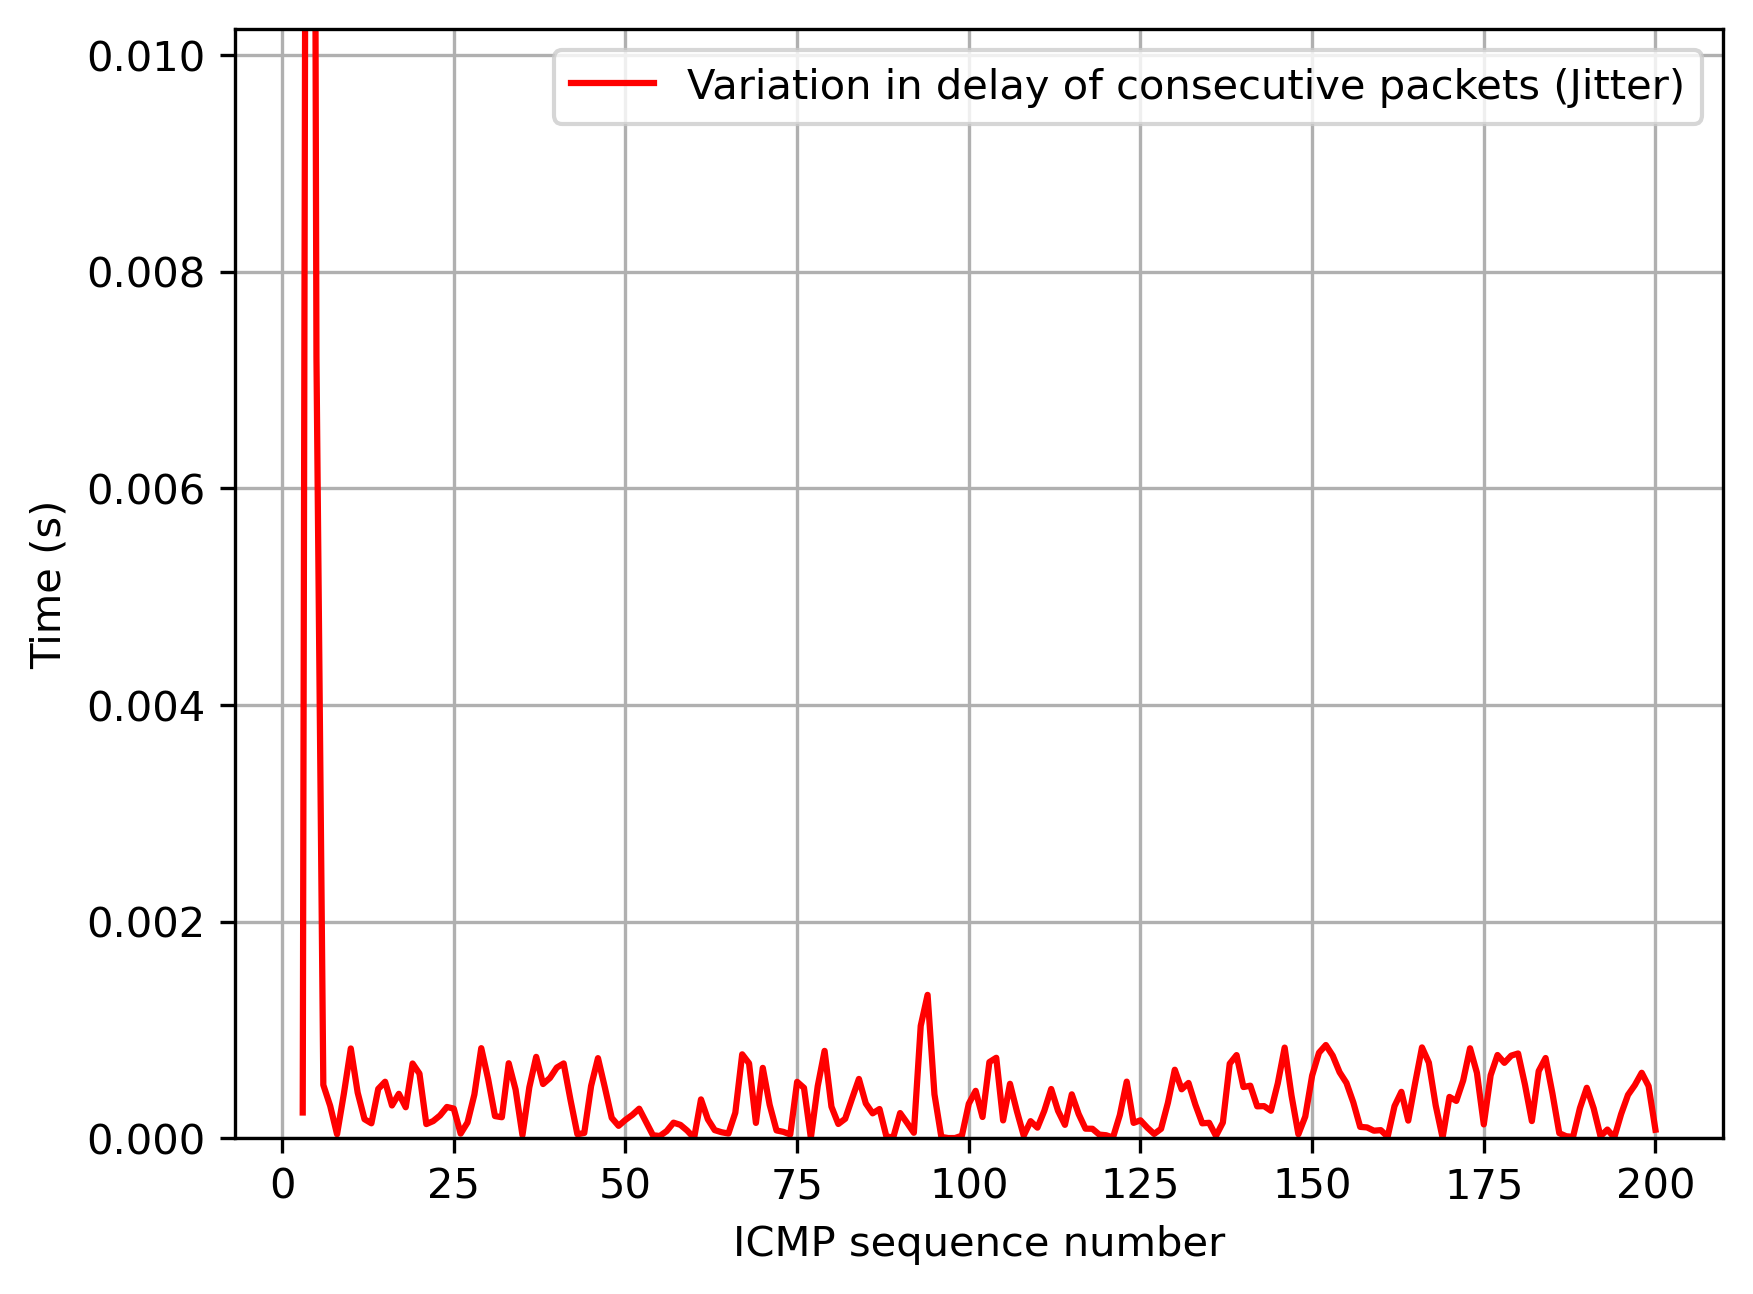
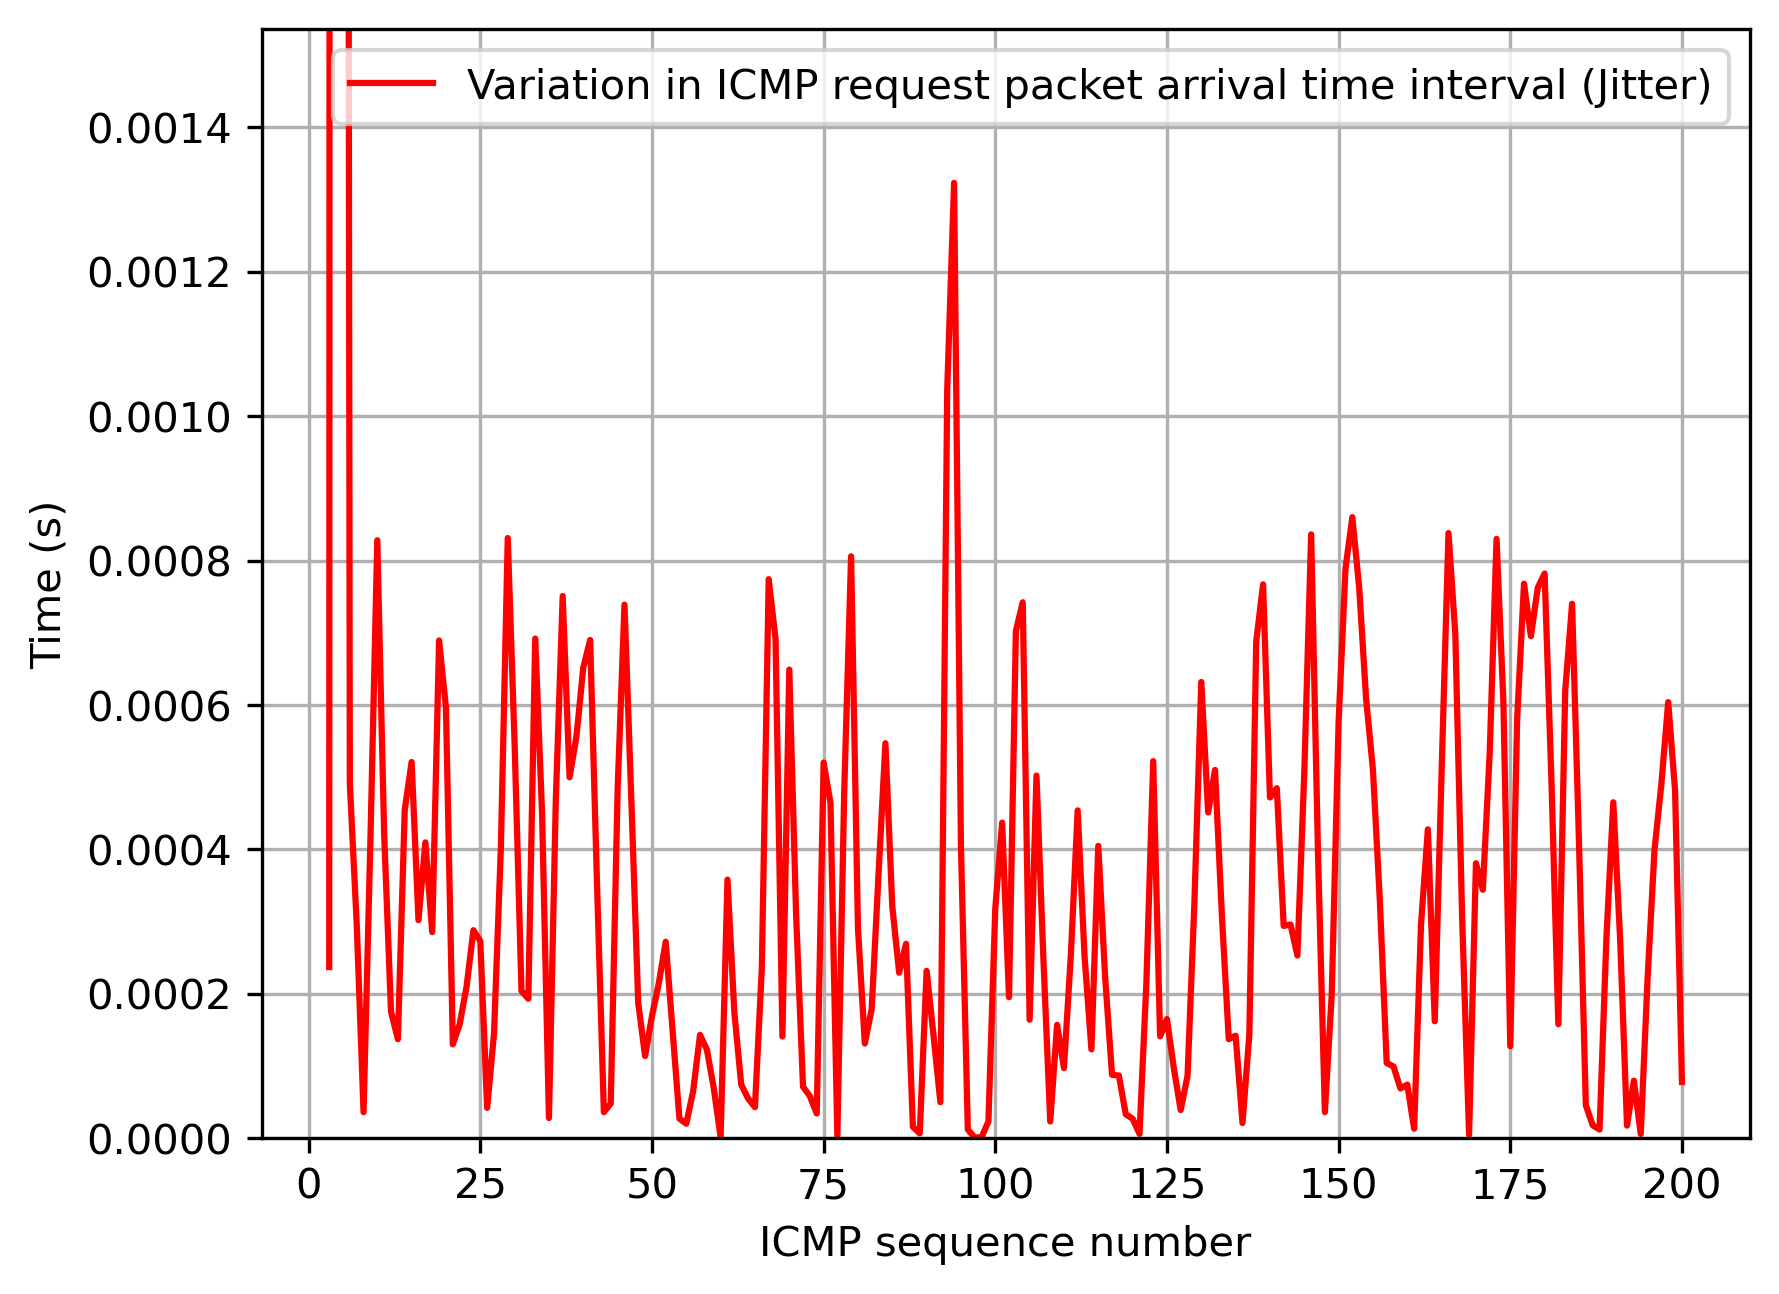
Adição dos histogramas

Changed region(s): [[0.0308, 0.0309, 0.9857, 0.9892], [0.4313, 0.3709, 0.4929, 0.4019], [0.4313, 0.3091, 0.4929, 0.34]]

diff --git a/project2/icmp_analyzer.py b/project2/icmp_analyzer.py
@@ -4,7 +4,7 @@ from packet_analyzer import PacketAnalyzer
 from graph_plotter import GraphPlotter
 from ip_analyzer import IpAnalyzer
 
-# analisador de pacotes em capturas .pcap
+# analisador de camada ICMP
 class IcmpAnalyzer(PacketAnalyzer):
 
     def __init__(self, id=None, path=None):
@@ -41,7 +41,7 @@ class IcmpAnalyzer(PacketAnalyzer):
         return sorted(list(seqsList)) if seqsList else []
 
     # retorna estatísticas de RTT ICMP: lista de RTT, desvio padrão, média, máximo, mínimo
-    # sobrescrito
+    # override
     def getRttStats(self):
 
         rtts = []
@@ -71,7 +71,7 @@ class IcmpAnalyzer(PacketAnalyzer):
                 }
     
     # retorna estatísticas de intervalo de chegada entre requisições ICMP: lista de intervalos, média, desvio padrão, máximo e mínimo
-    # sobrescrito
+    # override
     def getIntervalStats(self):
 
         if self.getTotalPackets() < 2:
@@ -99,7 +99,7 @@ class IcmpAnalyzer(PacketAnalyzer):
                 } 
     
     # retorna estatísticas de perda de pacotes: enviados, recebidos, perdidos, taxa de perdas
-    # sobrescrito
+    # override
     def getPacketLossStats(self):
 
         sent = 0
@@ -126,7 +126,7 @@ class IcmpAnalyzer(PacketAnalyzer):
                 }
 
     # imprime métricas ICMP
-    # sobrescrito
+    # override
     def printMetrics(self):
 
         id = self.getId()
@@ -180,48 +180,118 @@ class IcmpAnalyzer(PacketAnalyzer):
         print(f"Loss rate: {lossRate}%")
         print()
     
-    # plota gráficos ICMP
-    # sobrescrito
-    def plotGraphs(self, path):
+    # plotagem de gráficos ICMP
+    # override
+    def plotIntervalGraph(self, path):
+        
+        id = self.getId()
+        seqs = self.getIcmpSeqsList()
+        intervals = self.getIntervalStats()["intervals"]
+
+        intervalGraph = GraphPlotter(xLabel="ICMP sequence number", yLabel="Time (s)")
+        intervalGraph.plotLineGraph(seqs[1:], intervals, color="yellow", plotLabel="ICMP request packet arrival time interval", marker=None)
+        intervalGraph.saveGraph(path+id+"-interval.png")
+    
+    # override
+    def plotJitterGraph(self, path):
+
+        id = self.getId()
+        seqs = self.getIcmpSeqsList()
+        intervals = self.getIntervalStats()["intervals"]
+        jitters = self.getJitterStats(intervals)["jitters"]
+
+        jitterGraph = GraphPlotter(xLabel="ICMP sequence number", yLabel="Time (s)")
+        jitterGraph.plotLineGraph(seqs[2:], jitters, color="red", plotLabel="Variation in ICMP request packet arrival time interval (Jitter)", marker=None, autoScaleY=True)
+        jitterGraph.saveGraph(path+id+"-jitter.png")
+    
+    #override
+    def plotLayersGraph(self, path):
 
         id = self.getId()
         layers = self.getLayers()["layers"]
         nLayers = self.getLayers()["nLayers"]
-        intervals = self.getIntervalStats()["intervals"]
-        jitters = self.getJitterStats(intervals)["jitters"]
 
-        seqs = self.getIcmpSeqsList()
-        rtts = self.getRttStats()["rtts"]
-        lossStats = self.getPacketLossStats()["lossStats"]
-        lossRate = self.getPacketLossStats()["lossRate"]
-
-        intervalGraph = GraphPlotter(xLabel="ICMP sequence number", yLabel="Time (s)")
-        intervalGraph.plotLineGraph(seqs[1:], intervals, color="yellow", plotLabel="Interval between consecutive packets", marker=None)
-        intervalGraph.saveGraph(path+id+"-interval.png")
-
-        jitterGraph = GraphPlotter(xLabel="ICMP sequence number", yLabel="Time (s)")
-        jitterGraph.plotLineGraph(seqs[2:], jitters, color="red", plotLabel="Variation in delay of consecutive packets (Jitter)", marker=None, autoScaleY=True, yScaleFactor=20)
-        jitterGraph.saveGraph(path+id+"-jitter.png")
-        
         layersGraph = GraphPlotter(xLabel="Protocol layers", yLabel="Amount of packets", legendPosition="right")
         layersGraph.plotBarGraph(layers, nLayers, plotLabel=layers)
         layersGraph.saveGraph(path+id+"-layers.png")
+
+    # override
+    def plotRttGraph(self, path):
+        
+        id = self.getId()
+        seqs = self.getIcmpSeqsList()
+        rtts = self.getRttStats()["rtts"]
 
         rttGraph = GraphPlotter(xLabel="ICMP sequence Number", yLabel="Time (s)")
         rttGraph.plotLineGraph(seqs, rtts, color="blue", plotLabel="Round Trip Time", marker=None, autoScaleY=True)
         rttGraph.saveGraph(path+id+"-rtt.png")
 
-        rttJitterGraph = GraphPlotter(None, "ICMP sequence number", "Time (s)")
+    #override
+    def plotRttJitterGraph(self, path):
+
+        id = self.getId()
+        seqs = self.getIcmpSeqsList()
+        rtts = self.getRttStats()["rtts"]
+        intervals = self.getIntervalStats()["intervals"]
+        jitters = self.getJitterStats(intervals)["jitters"]
+
+        rttJitterGraph = GraphPlotter(xLabel="ICMP sequence number", yLabel="Time (s)")
         rttJitterGraph.plotLineGraph(seqs, rtts, color="blue", plotLabel="Round Trip Time", marker=None)
-        rttJitterGraph.plotLineGraph(seqs[2:], jitters, color="red", plotLabel="Variation in delay of consecutive packets (Jitter)", marker=None, autoScaleY=True, yScaleFactor=20)
+        rttJitterGraph.plotLineGraph(seqs[2:], jitters, color="red", plotLabel="Variation in ICMP request packet arrival time interval (Jitter)", marker=None, autoScaleY=True)
         rttJitterGraph.saveGraph(path+id+"-rtt-jitter.png")
+    
+    # override
+    def plotLossGraph(self, path):
+
+        id = self.getId()
+        lossStats = self.getPacketLossStats()["lossStats"]
 
         lossGraph = GraphPlotter(xLabel="Packet loss statistics", yLabel="Amount of packets", legendPosition="right")
         lossGraph.plotBarGraph(["sent", "received", "lost"], lossStats, ["gray", "green", "red"], ["Sent Packets", "Received Packets", "Lost Packets"])
         lossGraph.saveGraph(path+id+"-loss.png")
+    
+    # override
+    def plotLossRateGraph(self, path):
+        
+        id = self.getId()
+        lossRate = self.getPacketLossStats()["lossRate"]
 
         lossRateGraph = GraphPlotter()
         lossRateGraph.plotPizzaGraph(["received packets", "lost packets"], [100-lossRate, lossRate], ["green", "red"])
         lossRateGraph.saveGraph(path+id+"-loss-rate.png")
 
+    # override
+    def plotIntervalHistogram(self, path):
+
+        id = self.getId()
+        intervals = self.getIntervalStats()["intervals"]
+
+        intervalHistogram = GraphPlotter(xLabel="Interval time (s)", yLabel="Frequency", legendFlag=False)
+        intervalHistogram.plotHistogram(intervals, color="yellow", plotLabel="ICMP request packet arrival time interval")
+        intervalHistogram.saveGraph(path+id+"-interval-histogram.png")
+    
+    #override
+    def plotJitterHistogram(self, path):
+
+        id = self.getId()
+        intervals = self.getIntervalStats()["intervals"]
+        jitters = self.getJitterStats(intervals)["jitters"]
+
+        jitterHistogram = GraphPlotter(xLabel="Jitter interval time (s)", yLabel="Frequency", legendFlag=False)
+        jitterHistogram.plotHistogram(jitters, color="red", plotLabel="Variation in ICMP request packet arrival time interval (Jitter)")
+        jitterHistogram.saveGraph(path+id+"-jitter-histogram.png")
+
+    #override
+    def plotRttHistogram(self, path):
+        
+        id = self.getId()
+        rtts = self.getRttStats()["rtts"]
+
+        rttHistogram = GraphPlotter(xLabel="RTT interval time (s)", yLabel="Frequency", legendFlag=False)
+        rttHistogram.plotHistogram(rtts, color="blue", plotLabel="Round Trip Time")
+        rttHistogram.saveGraph(path+id+"-rtt-histogram.png")
+        
+
+        
+        
     

diff --git a/project2/packet_analyzer.py b/project2/packet_analyzer.py
@@ -140,7 +140,7 @@ class PacketAnalyzer:
     def packetPdfDump(self, filename, pkt):
         self.getPacket(pkt).pdfdump(filename, layer_shift=1)
     
-    # imprime métricas
+    # imprime métricas gerais
     def printMetrics(self):
 
         id = self.getId()
@@ -170,27 +170,74 @@ class PacketAnalyzer:
         print(f"Jitter standard deviation: {stdJitter*1000:.2f} ms")
         print(f"Maximum jitter: {maxJitter*1000:.2f} ms")
         print(f"Minimum jitter: {minJitter*1000:.2f} ms")
-        print(f"Throughput: {throughput} bps")
+        print(f"Throughput: {throughput} Mbps")
         print()
 
-    # plota gráficos gerais
-    def plotGraphs(self, path):
+    # plotagem de gráficos gerais
+
+    def plotIntervalGraph(self, path):
 
         id = self.getId()
-        layers = self.getLayers()["layers"]
-        nLayers = self.getLayers()["nLayers"]
-        intervals = self.getIntervalStats()["intervals"]
-        jitters = self.getJitterStats(intervals)["jitters"]
         nPackets = [i for i in range(1, self.getTotalPackets()+1)]
+        intervals = self.getIntervalStats()["intervals"]
 
         intervalGraph = GraphPlotter(xLabel="Packet capture sequence", yLabel="Time (s)")
         intervalGraph.plotLineGraph(nPackets[1:], intervals, color="yellow", plotLabel="Interval between consecutive packets", marker=None)
         intervalGraph.saveGraph(path+id+"-interval.png")
 
+    def plotJitterGraph(self, path):
+
+        id = self.getId()
+        nPackets = [i for i in range(1, self.getTotalPackets()+1)]
+        intervals = self.getIntervalStats()["intervals"]
+        jitters = self.getJitterStats(intervals)["jitters"]
+
         jitterGraph = GraphPlotter(xLabel="Packet capture sequence", yLabel="Time (s)")
-        jitterGraph.plotLineGraph(nPackets[2:], jitters, color="red", plotLabel="Variation in delay of consecutive packets (Jitter)", marker=None, autoScaleY=True, yScaleFactor=20)
+        jitterGraph.plotLineGraph(nPackets[2:], jitters, color="red", plotLabel="Variation in delay of consecutive packets (Jitter)", marker=None, autoScaleY=True)
         jitterGraph.saveGraph(path+id+"-jitter.png")
-        
+
+    def plotLayersGraph(self, path):
+
+        id = self.getId()
+        layers = self.getLayers()["layers"]
+        nLayers = self.getLayers()["nLayers"]
+
         layersGraph = GraphPlotter(xLabel="Protocol layers", yLabel="Amount of packets", legendPosition="right")
         layersGraph.plotBarGraph(layers, nLayers, plotLabel=layers)
         layersGraph.saveGraph(path+id+"-layers.png")
+
+    def plotIntervalHistogram(self, path):
+
+        id = self.getId()
+        intervals = self.getIntervalStats()["intervals"]
+
+        intervalHistogram = GraphPlotter(xLabel="Interval time (s)", yLabel="Frequency", legendFlag=False)
+        intervalHistogram.plotHistogram(intervals, color="yellow", plotLabel="Interval between consecutive packets")
+        intervalHistogram.saveGraph(path+id+"-interval-histogram.png")
+
+    def plotJitterHistogram(self, path):
+
+        id = self.getId()
+        intervals = self.getIntervalStats()["intervals"]
+        jitters = self.getJitterStats(intervals)["jitters"]
+
+        jitterHistogram = GraphPlotter(xLabel="Jitter interval time (s)", yLabel="Frequency", legendFlag=False)
+        jitterHistogram.plotHistogram(jitters, color="red", plotLabel="Variation in delay of consecutive packets (Jitter)")
+        jitterHistogram.saveGraph(path+id+"-jitter-histogram.png")
+
+    def plotRttGraph(self, path):
+        pass
+
+    def plotRttJitterGraph(self, path):
+        pass
+
+    def plotLossGraph(self, path):
+        pass
+
+    def plotLossRateGraph(self, path):
+        pass
+
+    def plotRttHistogram(self, path):
+        pass
+
+    

diff --git a/project2/graph_plotter.py b/project2/graph_plotter.py
@@ -146,7 +146,7 @@ class Color(Enum):
     WHITESMOKE = "whitesmoke"
     YELLOWGREEN = "yellowgreen"
 
-# plot graphs
+# plot graphs using matplotlib
 class GraphPlotter:
 
     def __init__(self, title=None, xLabel=None, yLabel=None, grid=True, legendFlag=True, legendPosition=None, colors=[], plotCount=0):
@@ -156,7 +156,7 @@ class GraphPlotter:
         self.grid = grid # graph grid option
         self.legendFlag = legendFlag # graph legend option
         self.legendPosition = legendPosition # legend position option (right, bottom, left)
-        self.colors = colors if colors else list(Color) # list of Color enum
+        self.colors = colors if colors else list(Color) # colors input or list of Color enum
         self.plotCount = plotCount # number of plots
         self.fig, self.axis = plt.subplots() # subplots objects for each instance, avoid error using plt global 
     
@@ -263,6 +263,18 @@ class GraphPlotter:
         self.axis.pie(sizes, labels=labels, colors=colors, explode=explode, startangle=startangle, autopct=autopct, shadow=shadow)
         self.axis.set_title(self.title or "")
         self.axis.axis('equal')  # circle
+
+    def plotHistogram(self, data, bins=10, color=None, plotLabel=None, xLabel=None, yLabel=None, title=None, grid=None, edgecolor="black", density=False, histtype="bar"):
+
+        color = self.getColor(color, self.plotCount)
+        self.plotCount += 1
+
+        self.axis.hist(data, bins, color=color, label=plotLabel, edgecolor=edgecolor, density=density, histtype=histtype)
+
+        self.axis.set_xlabel(xLabel or self.xLabel)
+        self.axis.set_ylabel(yLabel or self.yLabel)
+        self.axis.set_title(title or self.title)
+        self.axis.grid(self.grid if grid is None else grid)
 
     # custom user input plot
     def plotUserInput(self):

diff --git a/project2/capture_handler.py b/project2/capture_handler.py
@@ -1,11 +1,21 @@
 from icmp_analyzer import IcmpAnalyzer
 
-# imprime métricas e salva gráficos
-def makeOutput(captures):
+# imprime métricas e salva gráficos de todas capturas da lista
+def makeAllOutput(captures):
 
+    path = "icmpGraphs/"
     for i in range(len(captures)):
         captures[i].printMetrics()
-        captures[i].plotGraphs("icmpGraphs/")
+        captures[i].plotIntervalGraph(path)
+        captures[i].plotJitterGraph(path)
+        captures[i].plotLayersGraph(path)
+        captures[i].plotRttGraph(path)
+        captures[i].plotRttJitterGraph(path)
+        captures[i].plotLossGraph(path)
+        captures[i].plotLossRateGraph(path)
+        captures[i].plotIntervalHistogram(path)
+        captures[i].plotJitterHistogram(path)
+        captures[i].plotRttHistogram(path)
 
 if __name__ == "__main__":
 
@@ -17,4 +27,4 @@ if __name__ == "__main__":
     captures = [capture1,
                 capture2]
     
-    makeOutput(captures)
+    makeAllOutput(captures)

diff --git a/project2/ip_analyzer.py b/project2/ip_analyzer.py
@@ -2,6 +2,7 @@ from scapy.all import *
 import numpy as np
 from packet_analyzer import PacketAnalyzer
 
+# analisador de camada IP
 class IpAnalyzer(PacketAnalyzer):
 
     def __init__(self, id=None, path=None):
